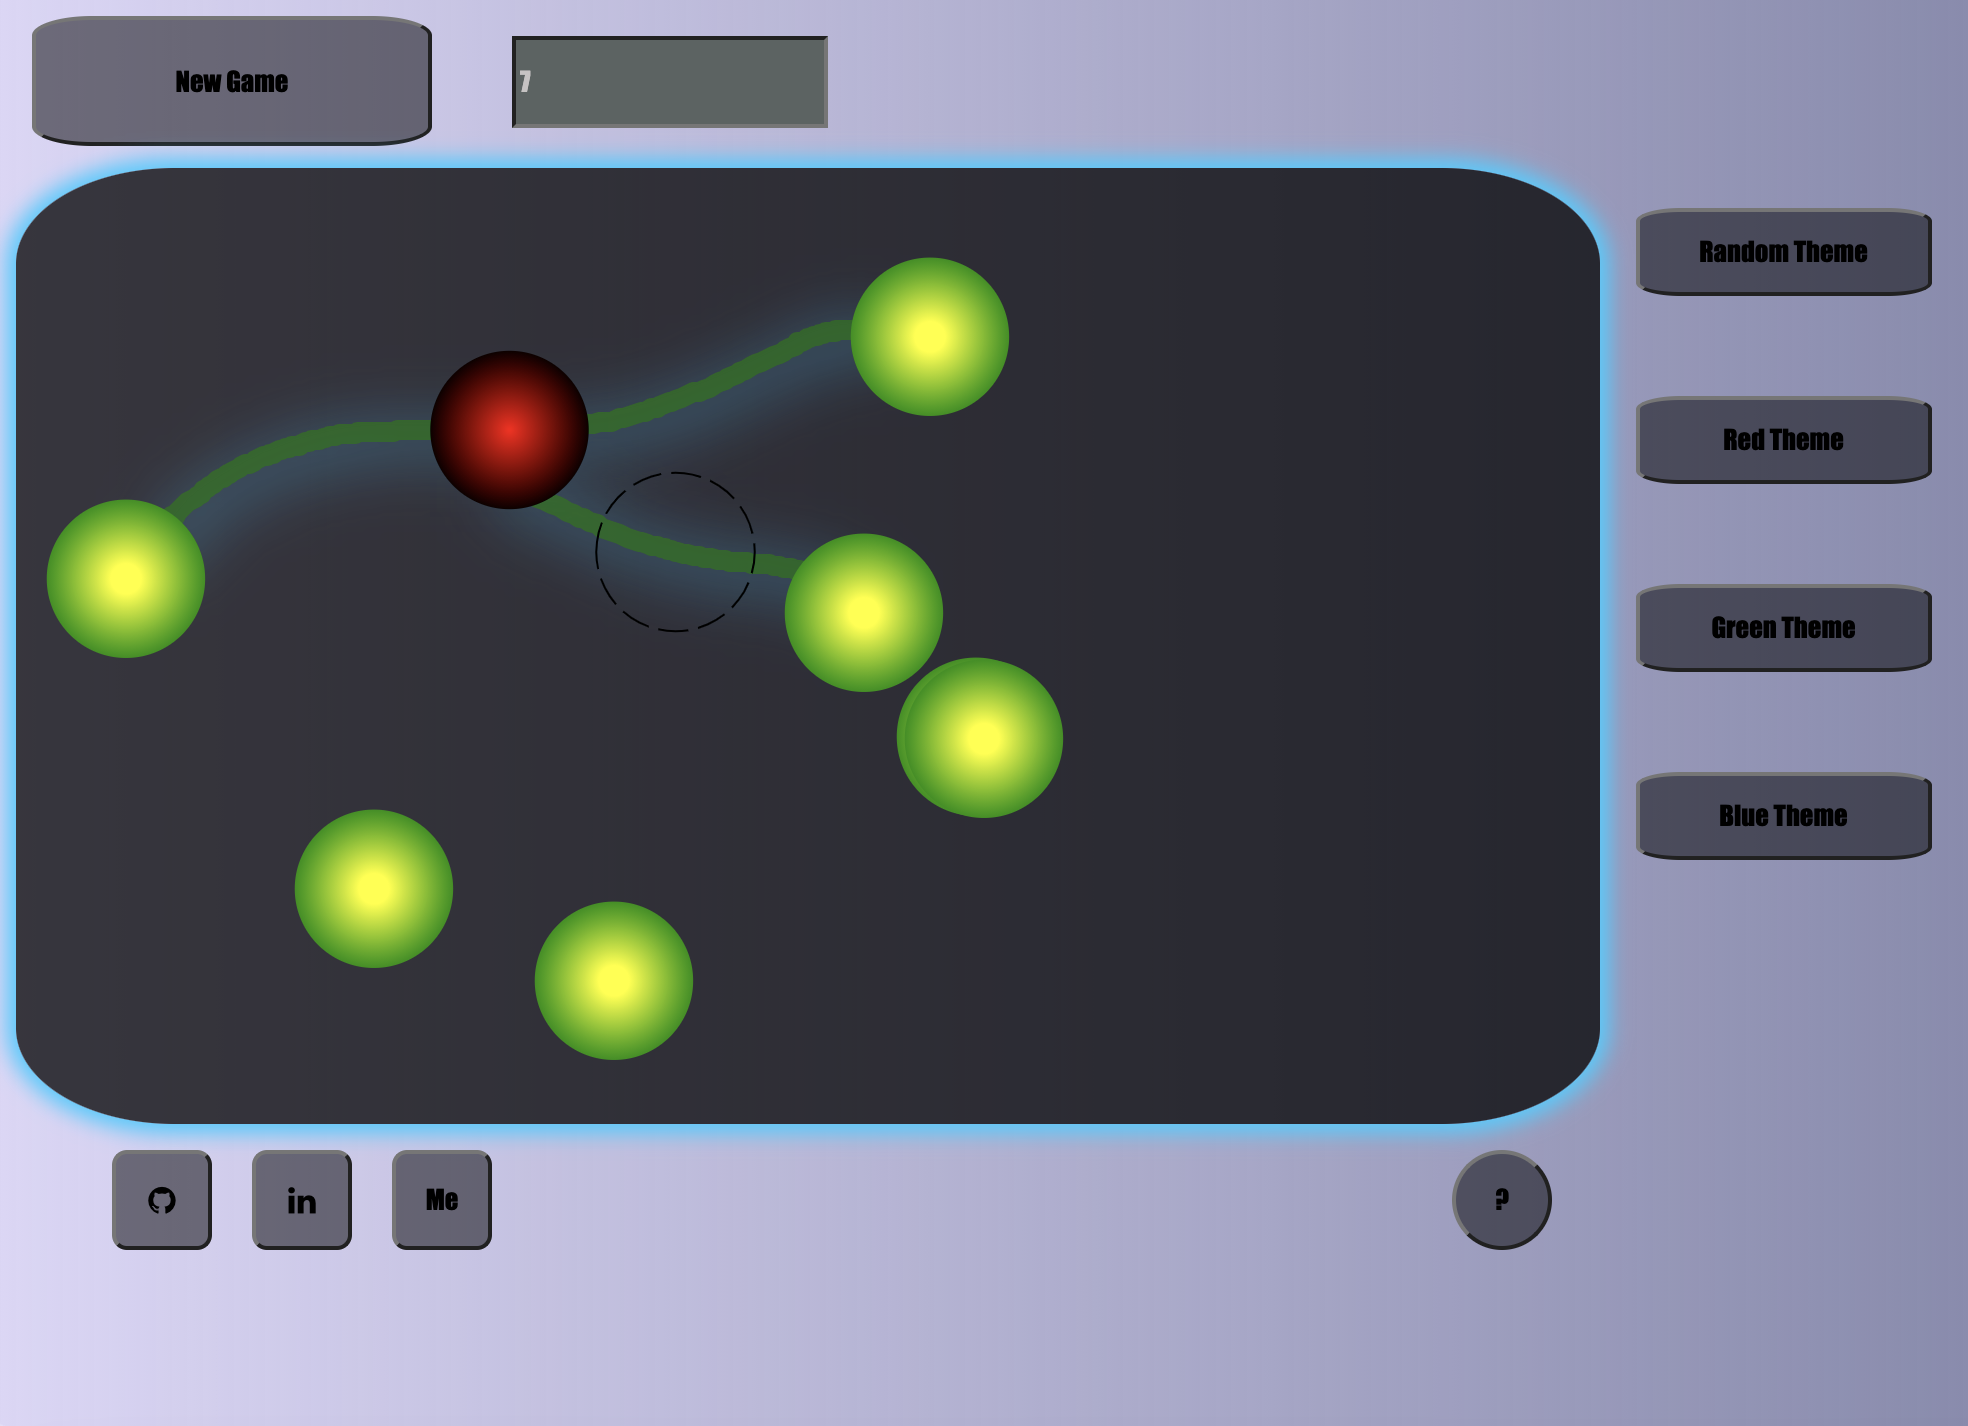
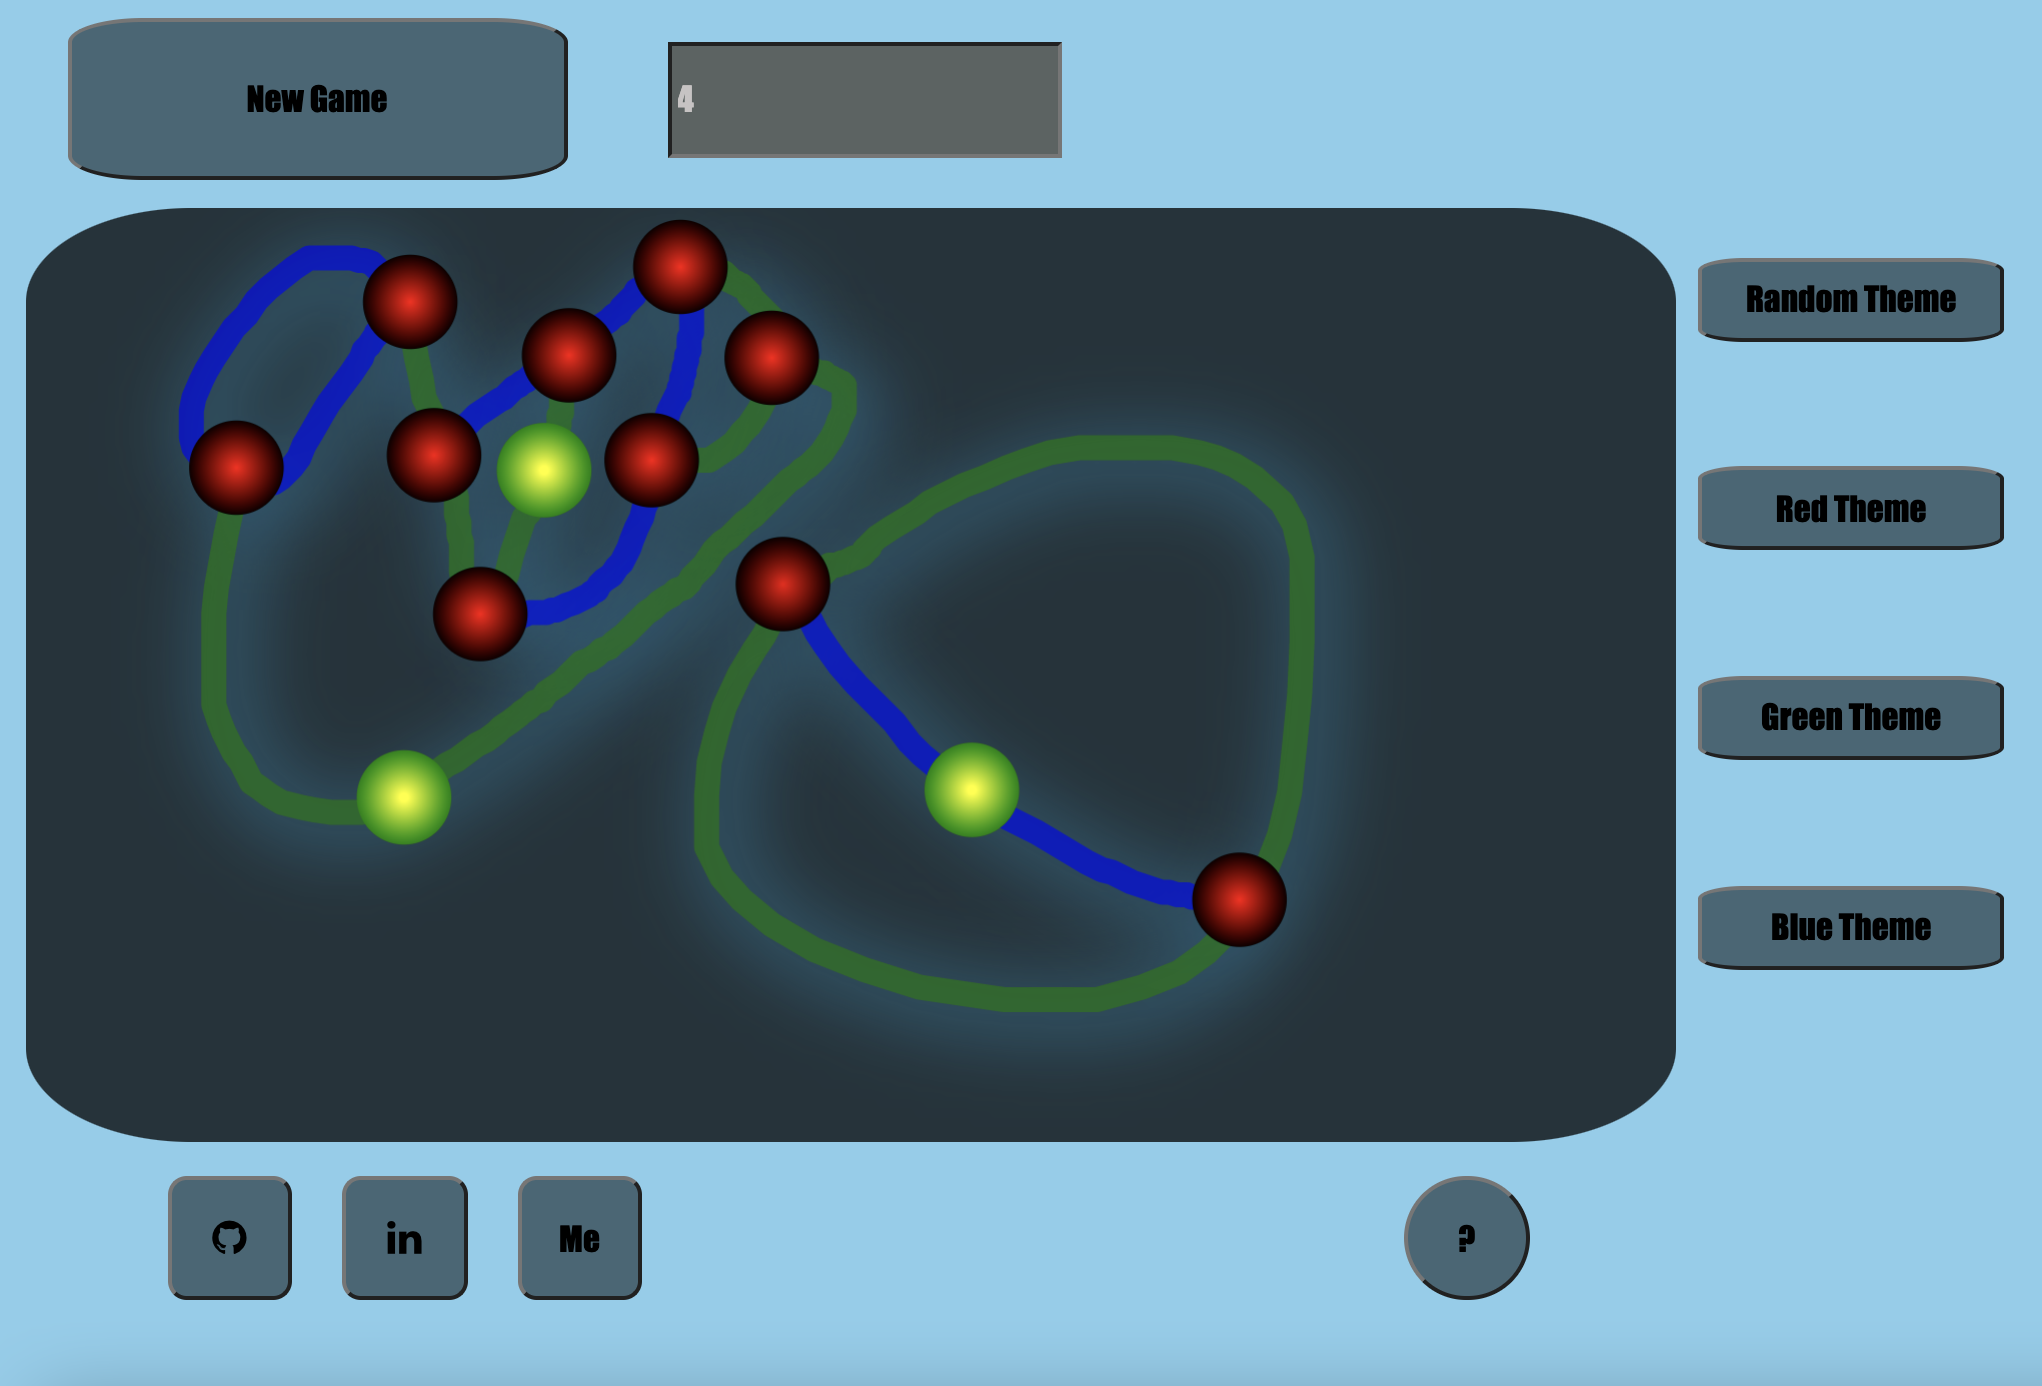
update screenshot

diff --git a/src/scripts/node.js b/src/scripts/node.js
@@ -95,7 +95,7 @@ class Node{
             }
             this.object.onMouseUp = function(event) {
                 
-                // that.children[that.children.length-1].add(event.point)
+                that.children[that.children.length-1].add(event.point)
                 that.object.bringToFront();
                 that.game.legalMove(that)
                 if (!that.capacity()){
